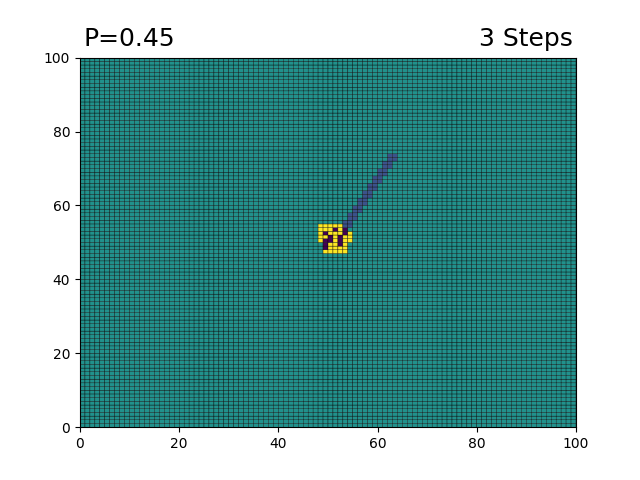
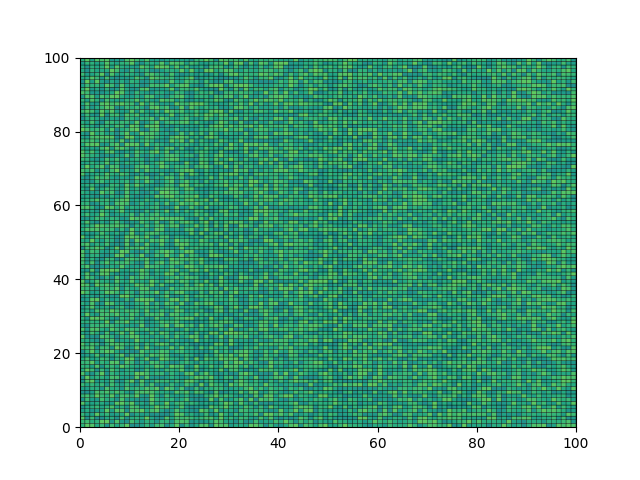
Simplified code, added examples

Changed region(s): [[0.125, 0.0625, 0.9062, 0.9062], [0.125, 0.0625, 0.2812, 0.0938]]

diff --git a/PercolationModel.py b/PercolationModel.py
@@ -1,7 +1,3 @@
-# Written 05/01/17 by dh4gan
-# Object runs a 2D percolation model
-# for stellar settlement
-
 import numpy as np
 
 class PercolationModel2D(object):    
@@ -17,101 +13,67 @@ class PercolationModel2D(object):
         produces N x N blank grid
         '''
         
-        self.N = ni
-        self.Ntot = self.N*self.N        
-        self.grid = np.zeros((self.N,self.N))        
-        self.nextgrid = np.zeros((self.N,self.N))
-        self.tested = np.zeros((self.N,self.N))
-        self.complete = False
-        
-    def getMooreNeighbourhood(self, i,j):
+        self.N = ni                     # Size of 1 side
+        self.Ntot = self.N*self.N       # Overall size
+        # Much more complex initializations for grid can be implemented later       
+        # Each point has some unique parameters, on which something is determined
+        self.grid_param1 = np.random.rand(self.N,self.N)            # Current step grid
+
+        # Everything is implemented in this style instead of classes to increase performance
+
+    # We assume that neighborhood is finishing at border (it is not rolling from another side)
+    def getMooreNeighbourhood(self, i,j, extent=1):
         '''
         Returns a set of indices corresponding to the Moore Neighbourhood
         (These are the cells immediately adjacent to (i,j), plus those diagonally adjacent)
         '''
+
+        # Check for incorrect input
+        # Make it a test later
+        if (i<0 or i>=self.N or j<0 or j>self.N):
+            return ValueError
         
         indices = []
         
-        for iadd in range(i-1,i+2):
-            for jadd in range(j-1, j+2):        
-                if(iadd==i and jadd == j): continue
-                
-                if(iadd>self.N-1): iadd = iadd - self.N
-                if(jadd>self.N-1): jadd = jadd - self.N
-                
+        for iadd in range(i-extent,i+extent+1):
+            for jadd in range(j-extent, j+extent+1):        
+                if(iadd==i and jadd == j):  # If is not the same cell
+                    continue
+                if (iadd < 0 or iadd>=self.N):          # If is not in bounds
+                    continue                
+                if (jadd < 0 or jadd>=self.N):          # If is not in bounds
+                    continue
                 indices.append([iadd,jadd])
         
         return indices
     
-    def getVonNeumannNeighbourhood(self,i,j):
+    def getVonNeumannNeighbourhood(self,i,j,extent=1):
         '''
         Returns a set of indices corresponding to the Von Neumann Neighbourhood
         (These are the cells immediately adjacent to (i,j), but not diagonally adjacent)
         '''
+
+        # Check for incorrect input
+        # Make it a test later
+        if (i<0 or i>=self.N or j<0 or j>self.N):
+            return ValueError
         
         indices = []
         
-        for iadd in range(i-1,i+2):
+        for iadd in range(i-extent,i+extent+1):
             if(iadd==i): continue
-            if(iadd>self.N-1): iadd = iadd - self.N        
-                
+            if(iadd < 0 or iadd>=self.N): continue       # If is not in bounds                
             indices.append([iadd,j])
             
-        for jadd in range(j-1,j+2):
+        for jadd in range(j-extent,j+extent+1):
             if(jadd==j): continue
-            if(jadd>self.N-1): jadd = jadd - self.N
-            
+            if(jadd < 0 or jadd>=self.N): continue       # If is not in bounds                            
             indices.append([i,jadd])
             
         return indices    
     
-    
-    def check_complete(self):
-        
-        ntested = np.sum(self.tested)
-        
-        if (ntested == self.N*self.N):
-            self.complete=True
-            
-        return self.complete
-    
-    def randomise(self):
-        '''
-        Places a random selection of zeros and ones into grid
-        '''
-        
-        for i in range(self.N):
-            for j in range(self.N):
-                self.grid[i,j] = np.rint(np.random.random())
-                
-    def randomise_with_symmetry(self):
-        
-        for i in range(self.N/2):
-            for j in range(self.N/2):
-                self.grid[i,j] = np.rint(np.random.random())
-                self.grid[i+self.N/2,j] = self.grid[i,j+self.N/2] =self.grid[i+self.N/2,j+self.N/2]= self.grid[i,j]
-                
-    def clear(self, icentre, jcentre, extent):
-        '''
-        Clears a space on the grid
-        '''
-        
-        for i in range(icentre-extent, icentre+extent):
-            for j in range(jcentre-extent, jcentre+extent):
-                if(i>0 and i<self.N and j>0 and j<self.N):
-                    self.grid[i,j] = 0
-    
-    def updateGrid(self):
-        '''
-        Takes the changes queued up on self.nextgrid, and applies them to self.grid
-        '''
-        
-        self.grid = np.copy(self.nextgrid)
-        self.nextgrid = np.zeros((self.N,self.N))
-        
-                 
     # the part we can change later
-    def ApplyPercolationModelRule(self, P):
+    def step(self):
         '''
         Constructs the self.nextgrid matrix based on the properties of self.grid
         Applies the Percolation Model Rules:
@@ -119,37 +81,32 @@ class PercolationModel2D(object):
         1. Cells attempt to colonise their Moore Neighbourhood with probability P
         2. Cells do not make the attempt with probability 1-P
         '''
-        
+
+        # Placeholder for next step's grid
+        self.next_grid_param1 = np.zeros((self.N,self.N))       # Current step grid
+
+        # We should vectorize this before final test on big map
         for i in range(self.N):
             for j in range(self.N):
-                # set value -2 represent reiver
-                if(self.grid[i,j]==-0.5 and self.tested[i,j]==0):
-                    self.nextgrid[i,j]=self.grid[i,j]
-                    continue
 
-                # below we test other cells
-                if(self.tested[i,j]==1):
-                    self.nextgrid[i,j]=self.grid[i,j]
-                    continue
-                
-                # If cell contains a coloniser, then decide whether to colonise
-                if(self.grid[i,j]==1 and self.tested[i,j]==0):                    
-                    
-                    randtest = np.random.rand()
-                    
-                    # If colonisation occurs
-                    if(randtest<P):
-                        self.nextgrid[i,j]=1
-                        indices = self.getMooreNeighbourhood(i,j)
-                        
-                        for element in indices:
-                            if(self.tested[element[0],element[1]]==1):
-                                continue
-                            if(self.grid[element[0],element[1]]==0):
-                                self.nextgrid[element[0],element[1]]=1
-                            
-                    else:
-                        self.nextgrid[i,j]=-1
-                                                                                
-                    self.tested[i,j] =1
+                # Here we define our rules
+
+                # Example 1, compare current value
+                if (self.grid_param1[i,j] < 0.4):
+                    self.next_grid_param1[i,j] = self.grid_param1[i,j]*1.2
         
+                # Example 2, compare with neighborhood
+                neighbor_threshold = 0.6
+                cell_neighborhood = self.getMooreNeighbourhood(i, j)
+                # Find sum of param_1 in the neighborhood
+                # Better to simplify this thing into lambda or create functions for all rules
+                neighbor_sum_param1 = 0
+                for neighbor in cell_neighborhood:
+                    neighbor_sum_param1 += self.grid_param1[neighbor[0], neighbor[1]]
+                # Checking rule based on neighbors
+                if (neighbor_sum_param1) > neighbor_threshold:
+                    self.next_grid_param1[i,j] = self.grid_param1[i,j]*0.8
+        
+        # Saving changes
+        self.grid_param1 = self.next_grid_param1
+      

diff --git a/run_model.py b/run_model.py
@@ -1,18 +1,11 @@
 from PercolationModel import PercolationModel2D
-import PercolationModelPatterns as game
 import matplotlib.pyplot as plt
 from time import sleep
 from numpy import log10
-from config import N, nsteps, nzeros, icentre, jcentre,P
+from config import N, nsteps, nzeros
 
 # Create the percolation model, and seed four colony sites at the centre
 cell= PercolationModel2D(N)
-
-# except 'block', there are also other format of the starting centre provided, like blinker etc..
-game.add_block(cell,icentre,jcentre)
-for i in range(0, 10):
-    game.add_river(cell,icentre+4+2*i,jcentre+3+i)
-# game.add_blinker(cell,icentre,jcentre)
 
 # Set up interactive plotting
 
@@ -25,31 +18,22 @@ istep= 0
 while istep < nsteps:    
 
     ax.clear()
-    print(istep)
+    print("Current Step: ", istep)
     # Draw the automaton
-    hist = ax.pcolor(cell.grid,edgecolors='black',vmin=-1,vmax=1)
-    ax.text(0.9, 1.05,str(istep)+" Steps", horizontalalignment='center',verticalalignment='center',transform=ax.transAxes,fontsize=18)
-    ax.text(0.1,1.05, "P="+str(P),horizontalalignment='center',verticalalignment='center',transform=ax.transAxes,fontsize=18)
+    vis_param = cell.grid_param1
+    hist = ax.pcolor(vis_param, edgecolors='black', vmin=-1, vmax=1)
     #hist = ax.pcolor(cell.nextgrid,edgecolors='black', cmap='binary')
 
     plt.draw()
-    plt.savefig('.\\results\step_'+str(istep).zfill(nzeros)+".png")
+    plt.savefig('./results/step_'+str(istep).zfill(nzeros)+".png")      # change address i have linux sorry :)
     
     # Apply the Game of Life Rule, and update the grid
-    cell.ApplyPercolationModelRule(P)
-    cell.updateGrid()
-    
-    # Clear axes for next drawing
-    sleep(0.01)
-   
-    if cell.check_complete():
-        print("Run complete")
-        break
+    cell.step()
     
     istep+=1
 
 plt.ioff()
 
-hist = ax.pcolor(cell.grid,edgecolors='black',vmin=-1,vmax=1)
+hist = ax.pcolor(cell.grid_param1,edgecolors='black',vmin=-1,vmax=1)
 
 plt.show()

diff --git a/config.py b/config.py
@@ -1,9 +1,5 @@
 from numpy import log10
 
 N=100
-# nsteps = 1000
-nsteps = 60
+nsteps = 10
 nzeros = int(log10(nsteps))+1
-icentre = 50
-jcentre = 50
-P=0.45
